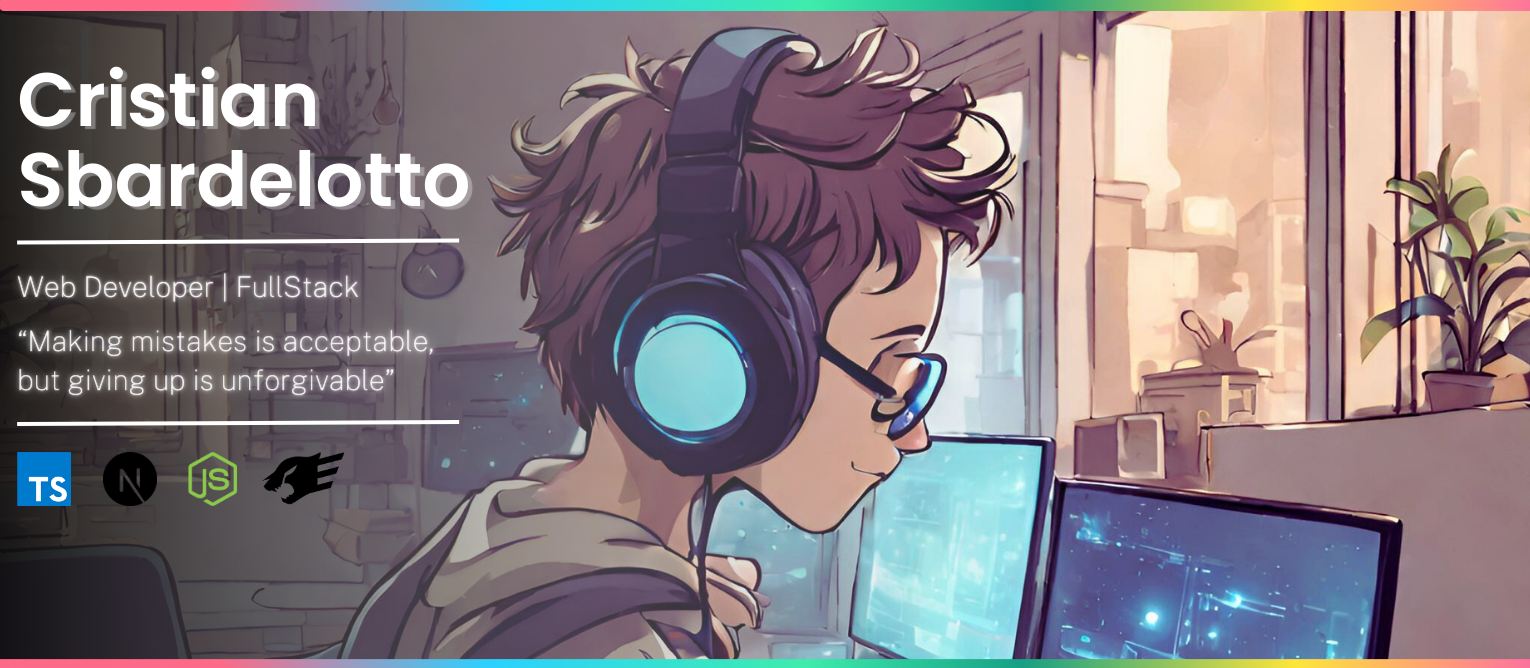
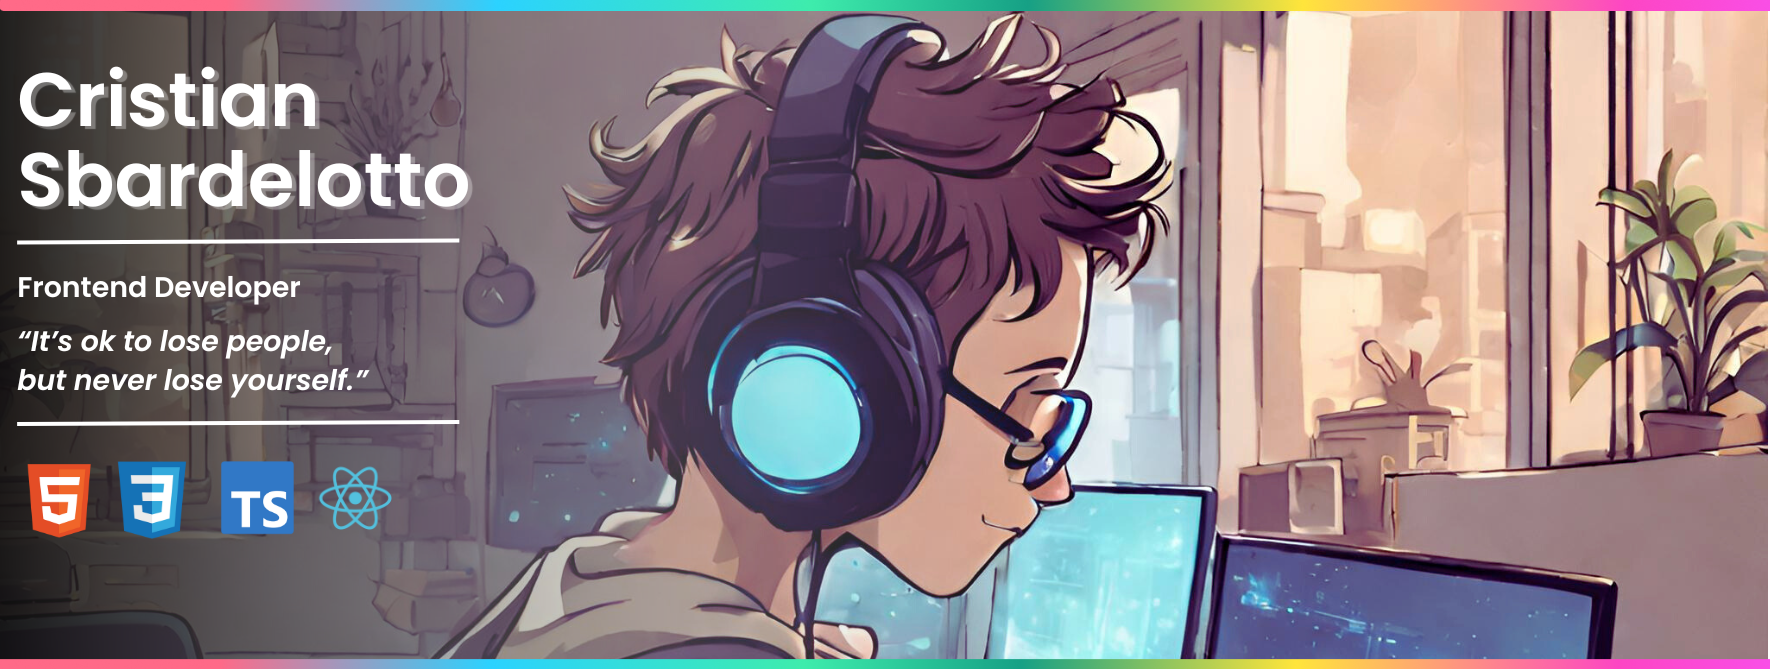
Update README.md

diff --git a/README.md b/README.md
@@ -20,13 +20,13 @@
 
 ## My Stack:
 
-<img src="https://skillicons.dev/icons?i=html,css,js,ts,react,nextjs,tailwind,nodejs,express,prisma,docker,vscode,git,github&theme=dark" />
+<img src="https://skillicons.dev/icons?i=html,css,js,ts,react,nextjs,tailwind,vite,figma,vscode,git,github&theme=dark" />
 
 ## About me:
 
-- 👋 Hello! My name is Cristian Sbardelotto and I am a FullStack Developer. <br /> 
-- 🧠 My current goal is to get my first job and, in the future, become a Tech Lead.<br /> 
-- 🧑💻 My main stack is HTML, CSS, Javascript, Typescript, React, NextJS, TailwindCSS, NodeJS, Prisma, Fastify, Express.<br />
+- 👋 Hello! My name is Cristian Sbardelotto and I am a Frontend Developer. <br />
+- 🧠 My current goal is to get my first job and, in the future, become a Tech Lead.<br />
+- 🧑💻 My main stack is HTML, CSS, Javascript, Typescript, React, NextJS, TailwindCSS, and Styled-components.<br />
 - 🧑🏻 I always try to be a polite and respectful person, and I love interacting with new people and sharing my story.<br />
 - 💬 Want to talk about technology, games or sports? Send a message!
 - 💻 Check out my [portfolio](https://portfolio-chi-lemon-51.vercel.app/)!
